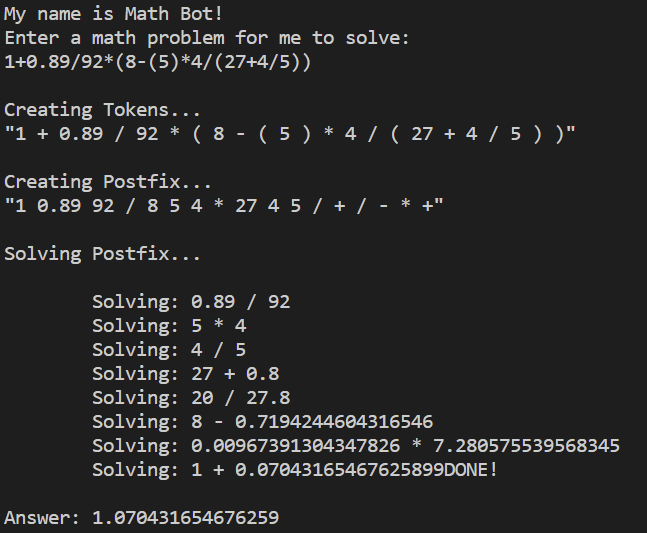
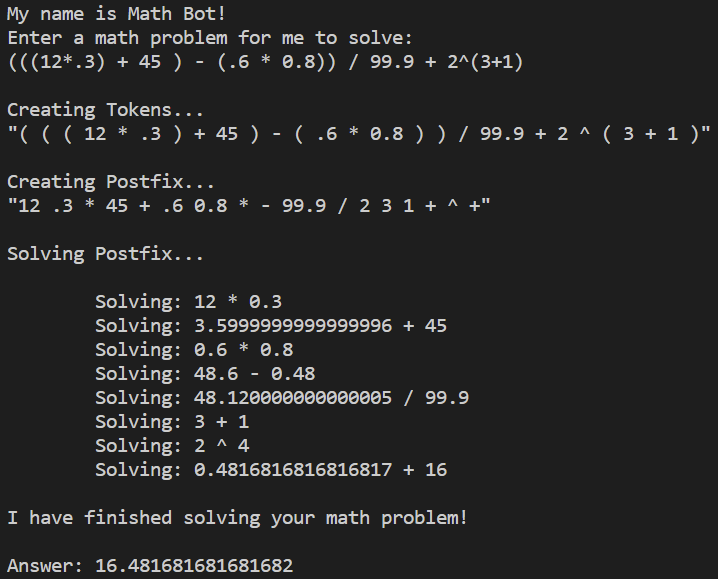
added ^ and updated readme

diff --git a/src/main.rs b/src/main.rs
@@ -397,7 +397,7 @@ fn solve_postfix(tokens: &mut Vec<Token>) -> f64 {
 
     'main: loop {
         if tokens.len() == 1 && stack.len() == 0 {
-            println!("DONE!");
+            println!("\n\nI have finished solving your math problem!");
             let a = tokens[0].keyword.parse();
             let a: f64 = match a {
                 Ok(o) => o,
@@ -455,6 +455,9 @@ fn solve_postfix(tokens: &mut Vec<Token>) -> f64 {
             } else if x.keyword == "/" {
                 print!("{} / {}", var1, var2);
                 sub_answer = var1 / var2;
+            } else if x.keyword == "^" {
+                print!("{} ^ {}", var1, var2);
+                sub_answer = var1.powf(var2);
             }
 
             // create a new token

diff --git a/readme.md b/readme.md
@@ -4,7 +4,13 @@
 
 ## Demo
 
-<img src="./images/demo.png">
+In this demo we solve: `(((12*.3) + 45 ) - (.6 * 0.8)) / 99.9 + 2^(3+1)`
+
+<img src="./images/demo.png" style="border: 1px dashed orange">
+
+Compare this to the real answer
+
+<img src="./images/demo_verify.png"  style="border: 1px solid green">
 
 ---
 
